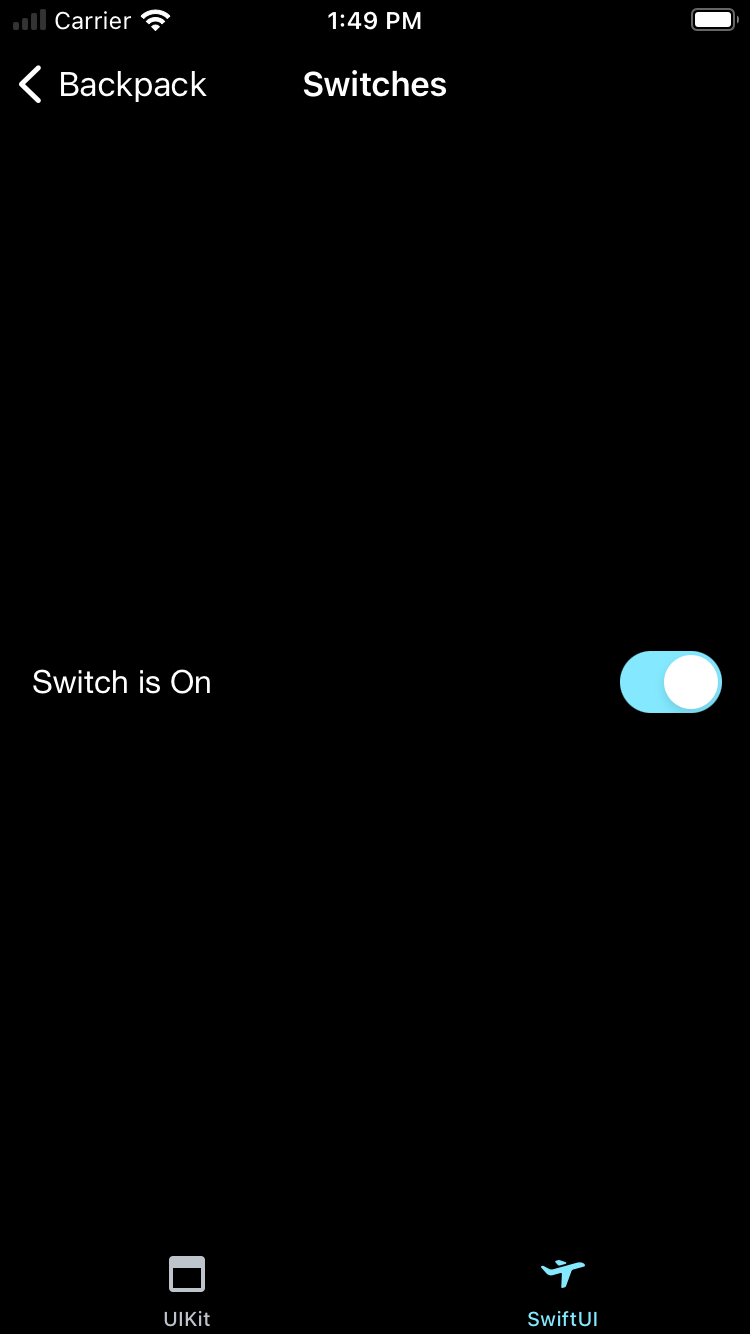
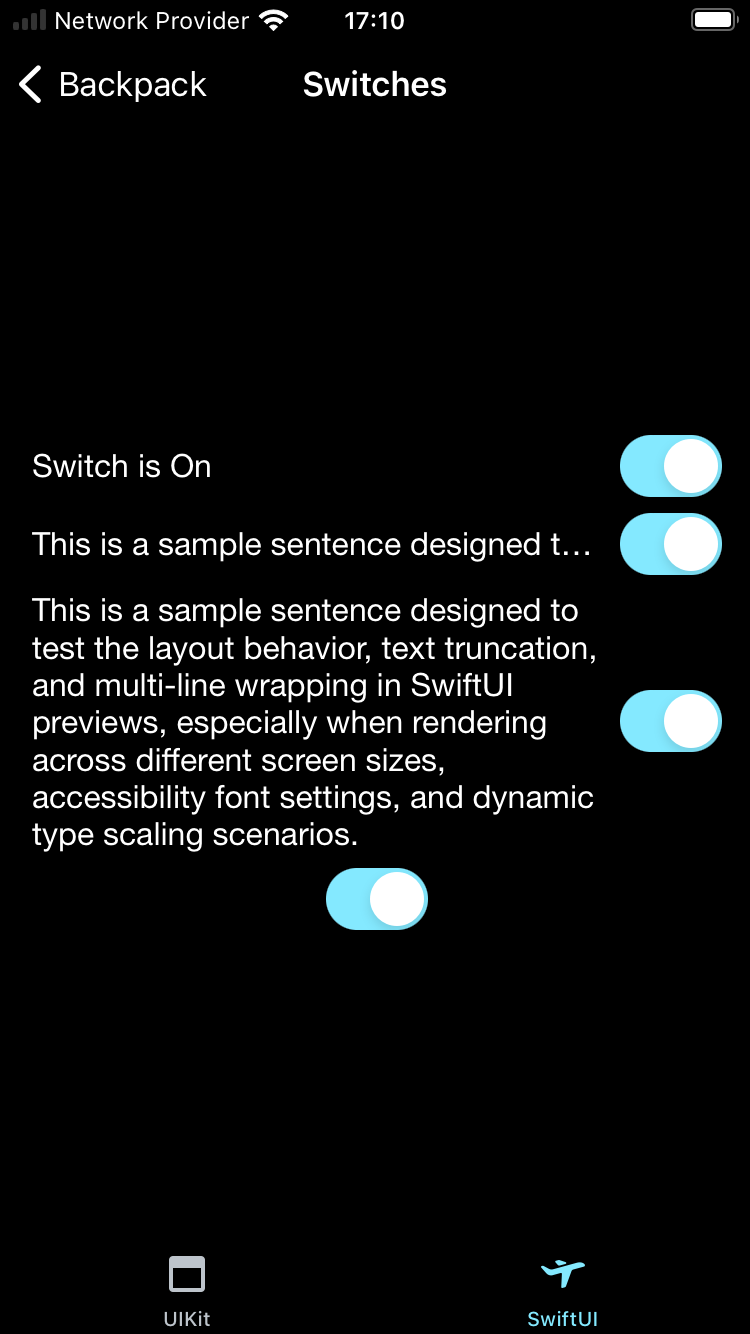
update test and snapshot

diff --git a/Backpack-SwiftUI/Tests/Switch/BPKSwitchTests.swift b/Backpack-SwiftUI/Tests/Switch/BPKSwitchTests.swift
@@ -28,4 +28,18 @@ class BPKSwitchTests: XCTestCase {
     func testSwitchOffState() {
         assertSnapshot(BPKSwitch(isOn: .constant(false), text: "Test").padding(.sm))
     }
+
+    func testSwitchTruncatedByDefault() {
+        assertSnapshot(BPKSwitch(isOn: .constant(false), text: "line 1\n line 2").padding(.sm))
+    }
+
+    func testSwitchTruncatedFalse() {
+        assertSnapshot(
+            BPKSwitch(
+                isOn: .constant(false),
+                text: "line 1\n line 2",
+                truncate: false
+            ).padding(.sm)
+        )
+    }
 }

diff --git a/Example/Backpack/SwiftUI/Components/Switch/SwitchExampleView.swift b/Example/Backpack/SwiftUI/Components/Switch/SwitchExampleView.swift
@@ -39,7 +39,7 @@ struct SwitchExampleView: View {
             )
             BPKSwitch(
                 isOn: $value,
-                text: "ABC",
+                text: "Switch Text",
                 truncate: false
             ).labelsHidden()
         }
